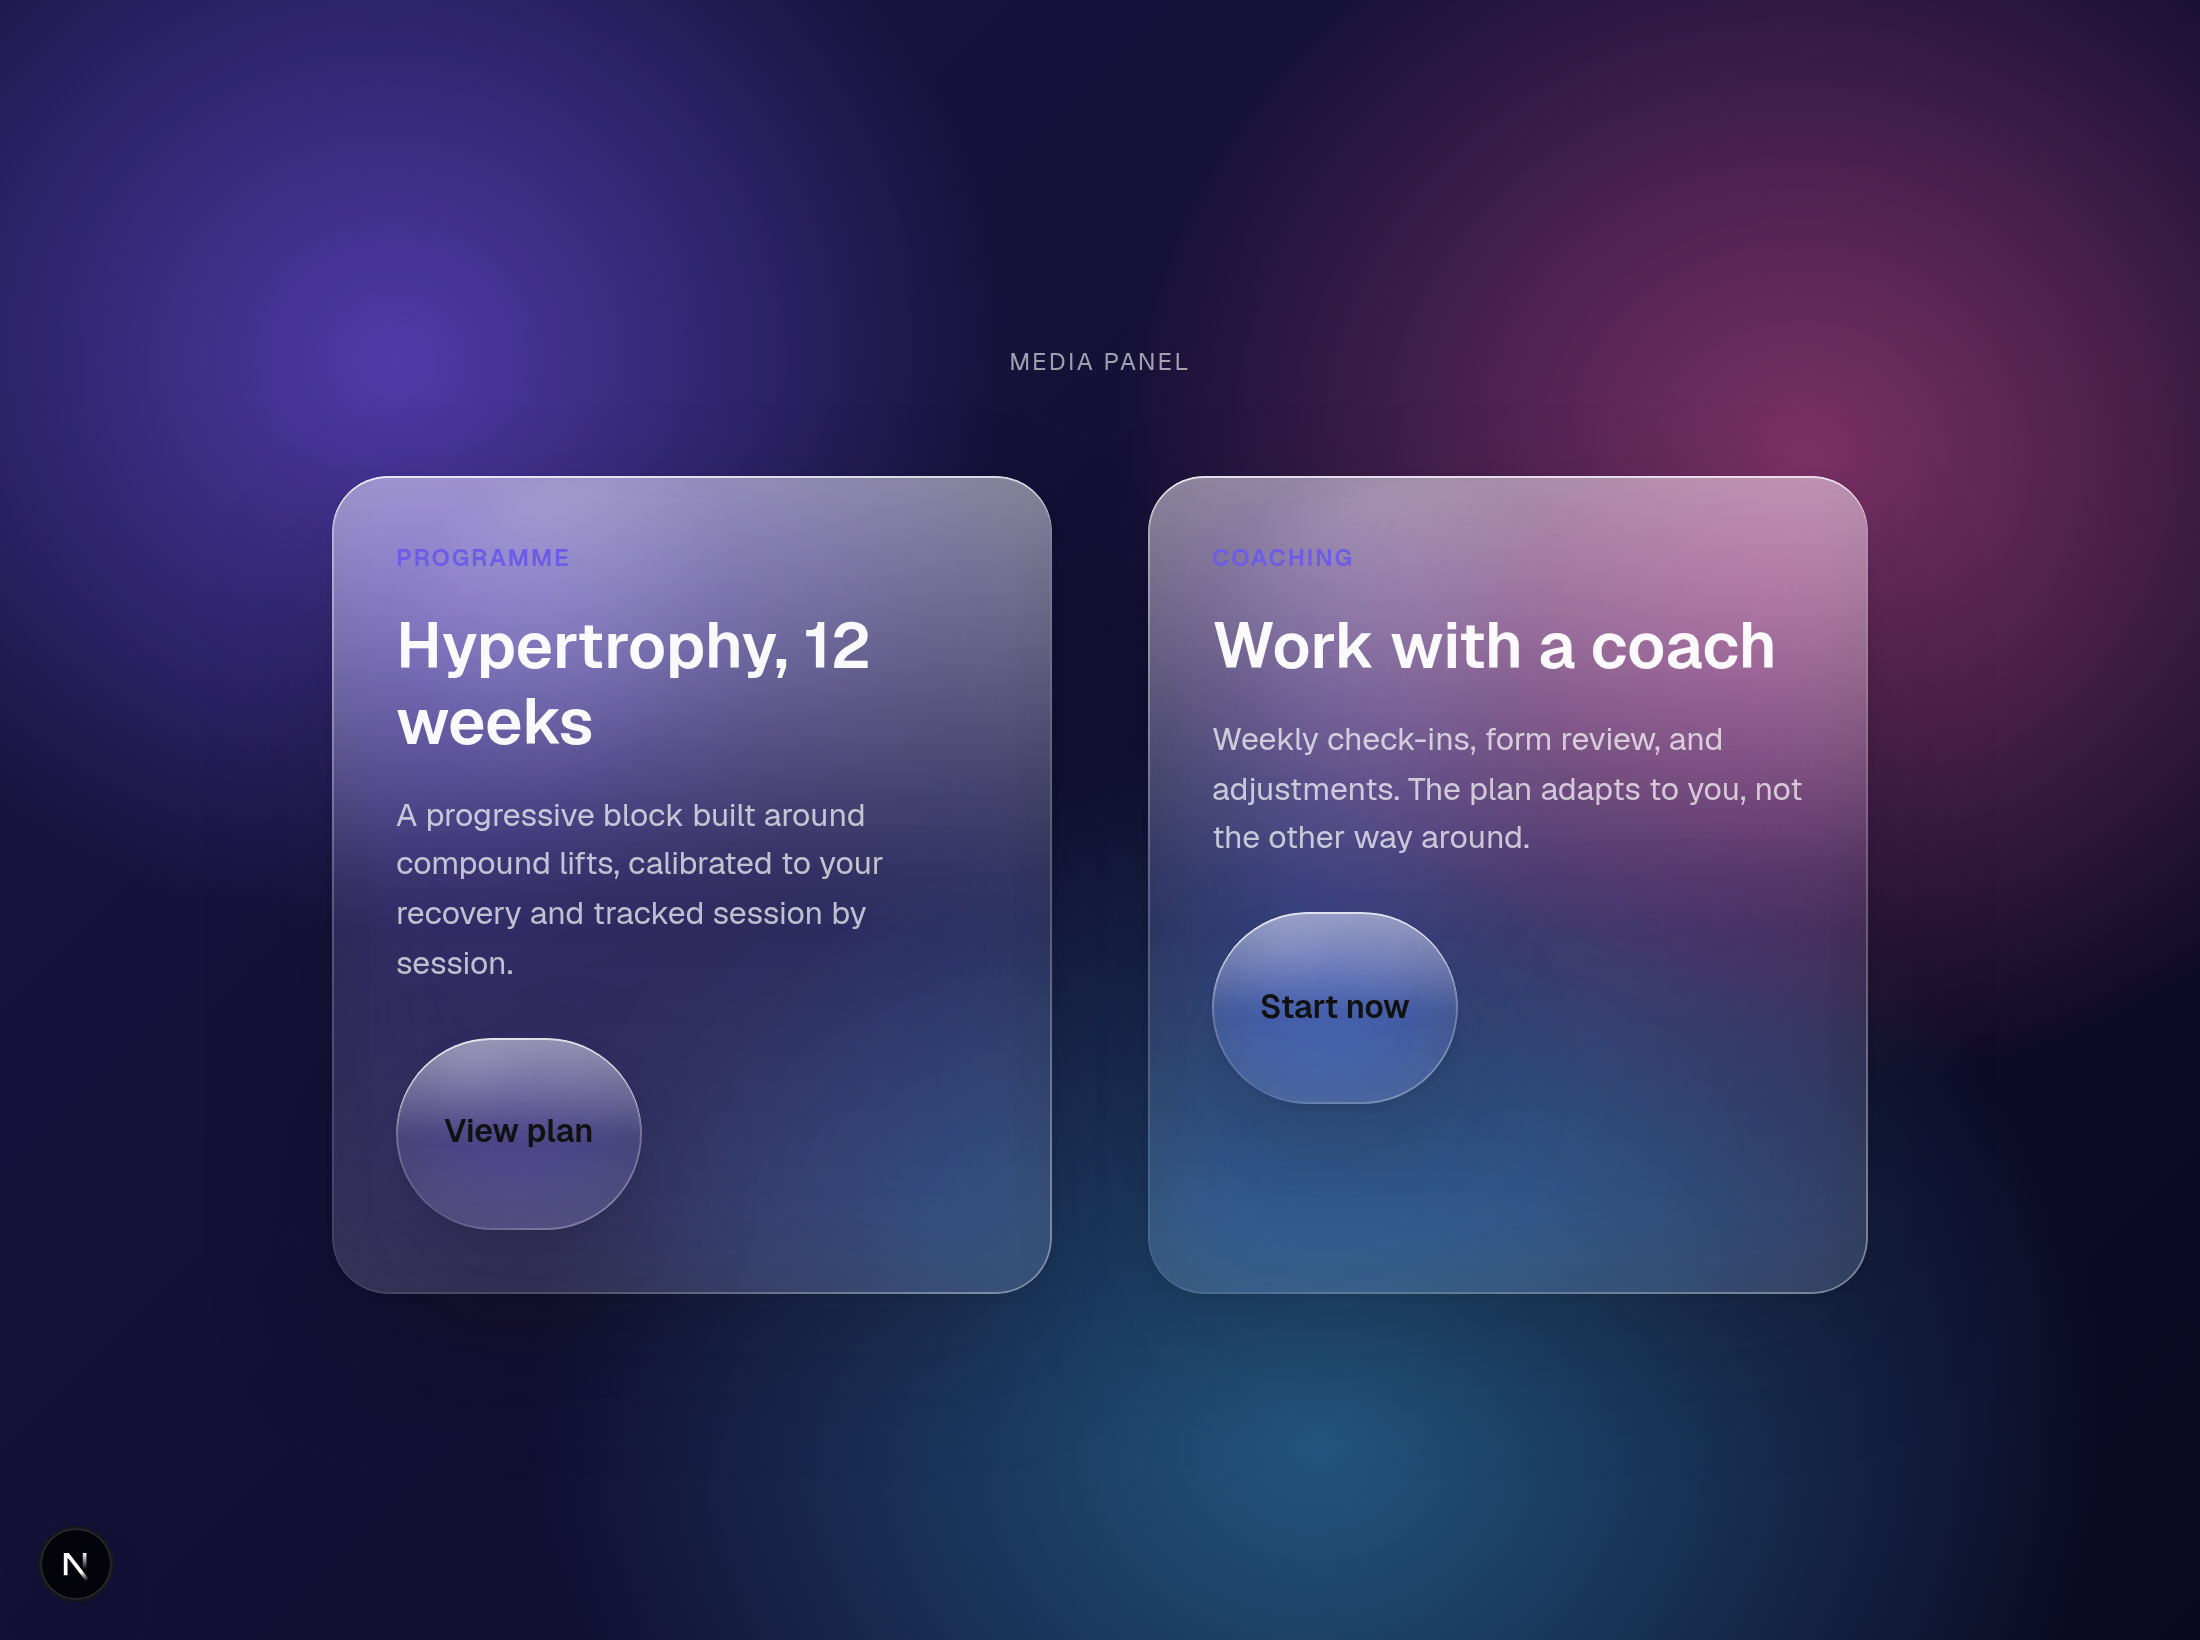
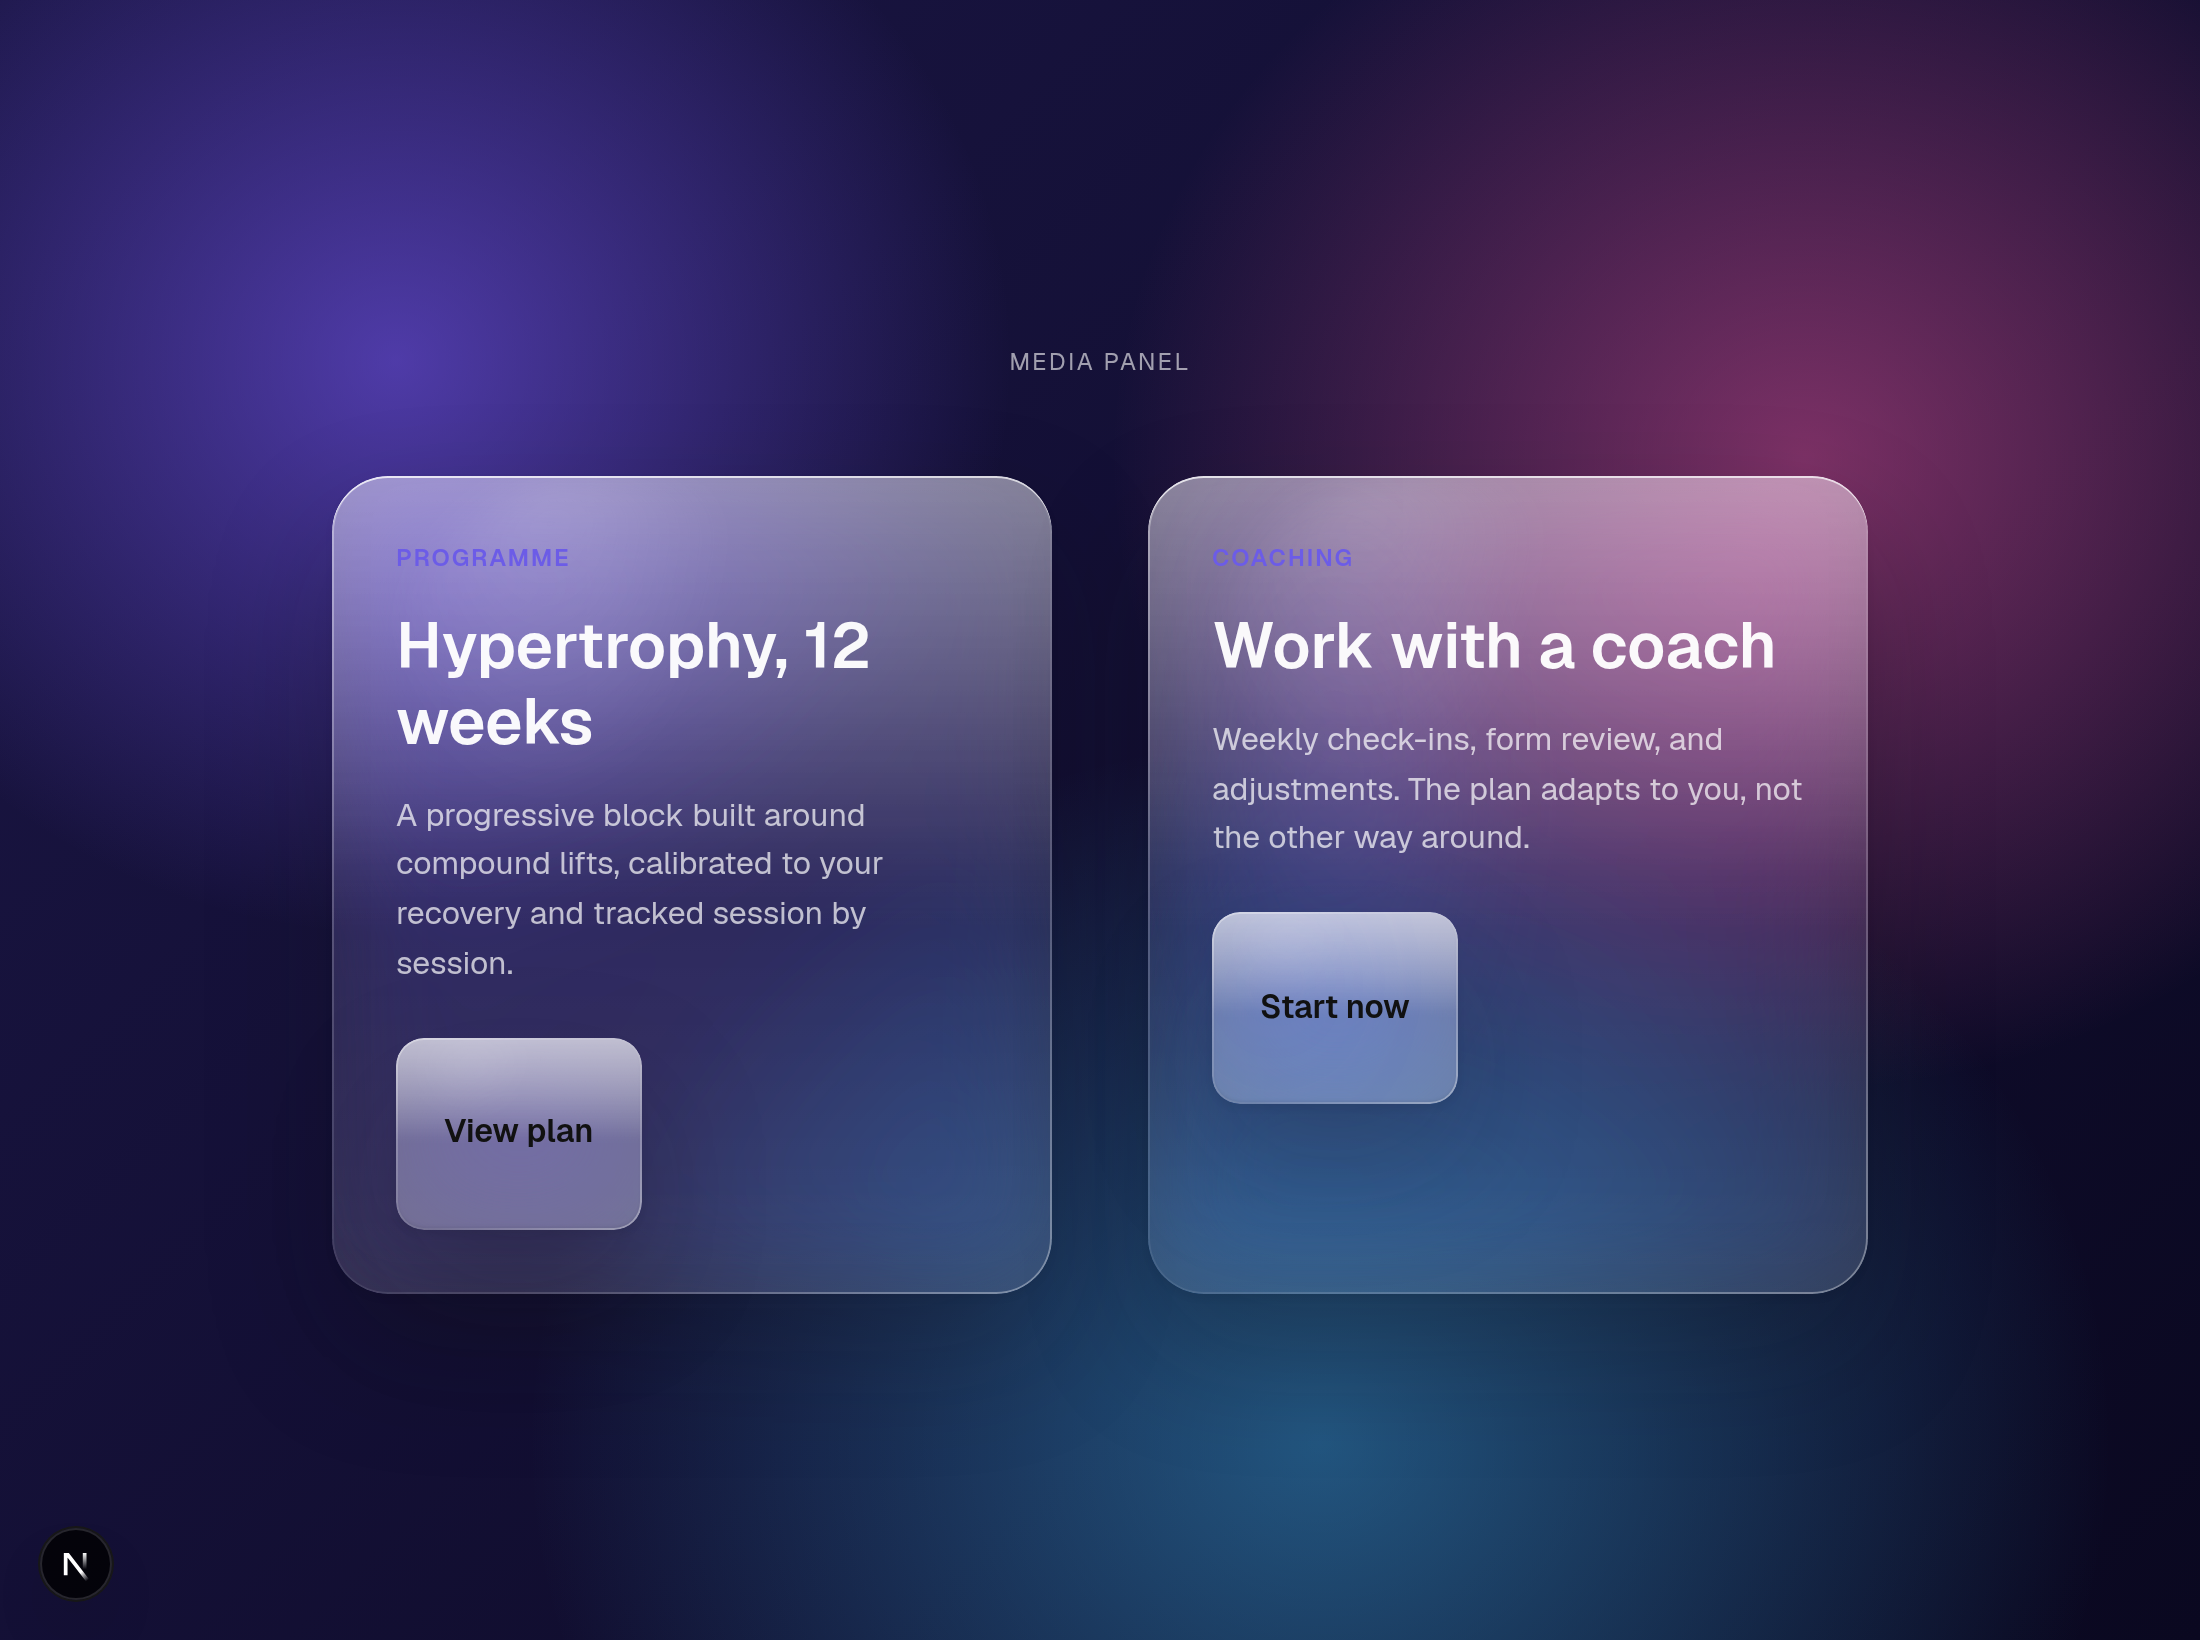
feat(card): add Embedded Micro Surface expression for in-card buttons
Buttons placed inside the reference Card read as machined, contained glass
pieces instead of inflated pills. Same optical material as the frozen button
(light, Fresnel, violet caustic, refraction all untouched) — only the capsule
geometry (less spherical 14px ends) and the internal volume distribution
(flatter top, tighter lower wall) change. Scoped to `.cd-card .btn-embedded`;
the frozen reference button and the shared material are not modified. Not yet a
DS-wide rule.

Claude-Session: https://claude.ai/code/session_01JSKxADquWPscGGWu93W5g6

Changed region(s): [[0.5255, 0.5287, 0.68, 0.6841], [0.1545, 0.622, 0.3091, 0.7774]]

diff --git a/src/app/(dev)/dev/card/card.css b/src/app/(dev)/dev/card/card.css
@@ -141,6 +141,35 @@
   padding-top: var(--ds-space-2);
 }
 
+/* ──────────────────────────────────────────────────────────────────────
+ * Embedded Micro Surface — buttons placed INSIDE a reference Card.
+ *
+ * Exactly the same optical material as the frozen reference button: light
+ * (incident + specular), Fresnel edge, violet caustic and refraction body are
+ * all left untouched. Only the CAPSULE GEOMETRY and the VOLUME DISTRIBUTION
+ * change, so the button stops reading as an inflated balloon and instead reads
+ * as a machined, contained, polished glass piece naturally set into the
+ * Structural Surface. Scoped to `.cd-card` for now — not yet a DS-wide rule.
+ * ────────────────────────────────────────────────────────────────────── */
+
+/* Less spherical ends: a tense rounded capsule instead of a full pill. */
+.cd-card .btn-embedded {
+  border-radius: 14px;
+}
+
+/* Flatter top + more contained volume. The lit top face is shorter and holds,
+   and the lower inner wall is tightened, so the body reads taut rather than
+   convex/puffed. Same fill tokens, same light — only the volume is redistributed. */
+.cd-card .btn-embedded .ds-glass__volume {
+  background: linear-gradient(
+    180deg,
+    var(--ds-glass-fill-top) 0%,
+    var(--ds-glass-fill-bottom) 52%,
+    var(--ds-glass-fill-bottom) 100%
+  );
+  box-shadow: inset 0 -1px 2px var(--ds-glass-inner-shadow);
+}
+
 /* --- Proof page backgrounds (dev only; decorative, not design tokens) ----- */
 .proof-light {
   background: var(--ds-color-bg);

diff --git a/src/app/(dev)/dev/card/card-reference.tsx b/src/app/(dev)/dev/card/card-reference.tsx
@@ -37,7 +37,10 @@ export function CardReference({
         <p className="cd-card__body">{body}</p>
         {cta && (
           <div className="cd-card__footer">
-            <Button variant={intent === 'primary' ? 'primary' : 'secondary'}>
+            <Button
+              variant={intent === 'primary' ? 'primary' : 'secondary'}
+              className="btn-embedded"
+            >
               {cta}
             </Button>
           </div>
